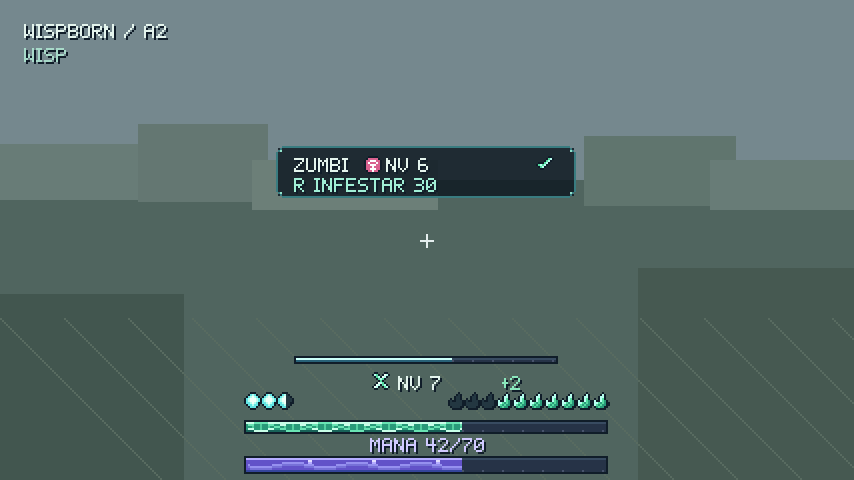
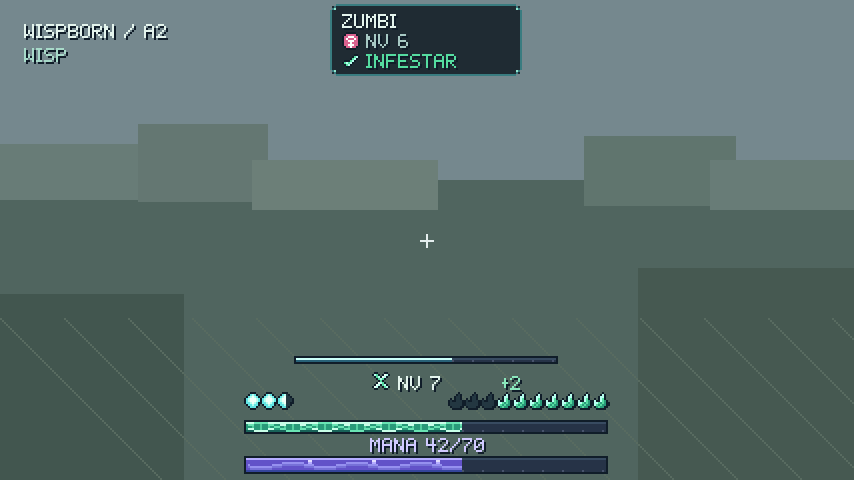
feat(hud): painel do alvo vira cartao no topo central (opcao B)
Cartao de 3 linhas no topo, no mesmo slot do painel do hospedeiro: nome,
selo de sexo + nivel, e 'Infestar' com icone em verde (pode) ou vermelho
(nao pode), sem tecla nem custo. Largura acompanha a linha mais longa
(72-160) via moldura nine-slice. O slot desce abaixo das barras de boss
(TopSlot, um quadro de atraso). HudMath.topSlotY e cardWidth com testes.

Changed region(s): [[0.3044, 0.2812, 0.7002, 0.4375], [0.3653, 0.0, 0.6089, 0.1562]]

diff --git a/src/main/java/dev/eder/wispborn/client/hud/WispHud.java b/src/main/java/dev/eder/wispborn/client/hud/WispHud.java
@@ -74,16 +74,19 @@ public final class WispHud {
     private static final int COLOR_MANA_TEXT = 0xD0CAFF;
     private static final int COLOR_POINTS_TEXT = 0x8BE8BD;
     private static final int COLOR_CONSUME_PROMPT = 0xC7FFE8;
-    private static final int COLOR_TARGET_OK = 0xA1EFD6;
-    private static final int COLOR_TARGET_FAIL = 0xFF7B7B;
+    private static final int COLOR_TEXT_MUTED = 0xA7C9C4;
+    private static final int COLOR_INFEST_OK = 0x55DCA0;
+    private static final int COLOR_INFEST_FAIL = 0xFF7B7B;
 
     /** Layout revisado em 20/11/2026: painel do hospedeiro no topo, selo e conjuração no centro inferior. */
     private static final int HOST_FRAME_W = 128;
     private static final int HOST_FRAME_H = 24;
-    private static final int HOST_FRAME_TOP = 4;
     private static final int HOST_BAR_W = 118;
     private static final int HOST_BAR_H = 5;
-    private static final int TARGET_FRAME_H = 26;
+    private static final int TARGET_CARD_H = 36;
+    private static final int TARGET_CARD_PAD = 6;
+    private static final int TARGET_CARD_MIN_W = 72;
+    private static final int TARGET_CARD_MAX_W = 160;
     private static final int CONSUME_BADGE_W = 84;
     private static final int CONSUME_BADGE_H = 16;
     private static final int CAST_BAR_W = 132;
@@ -291,7 +294,7 @@ public final class WispHud {
         SyncWispStatePayload state = ClientWispState.get();
         int cx = graphics.guiWidth() / 2;
         int frameX = cx - HOST_FRAME_W / 2;
-        int frameY = HOST_FRAME_TOP;
+        int frameY = TopSlot.top();
         int barX = frameX + 5;
         int barY = frameY + 15;
 
@@ -406,6 +409,10 @@ public final class WispHud {
         RenderSystem.disableBlend();
     }
 
+    /**
+     * Cartão do alvo no topo central (opção B, 20/11/2026): nome; selo de sexo + nível; ícone + "Infestar"
+     * em verde (pode) ou vermelho (não pode). A largura acompanha a linha mais longa.
+     */
     private static void renderPossessTarget(GuiGraphics graphics, DeltaTracker deltaTracker) {
         Minecraft mc = Minecraft.getInstance();
         Player player = activeParasitePlayer(mc);
@@ -423,64 +430,39 @@ public final class WispHud {
             return;
         }
 
-        int cx = graphics.guiWidth() / 2;
-        int h = graphics.guiHeight();
-        int frameX = cx - 75;
-        // A moldura termina 21 px acima da mira, como no LAYOUT.
-        int frameY = Math.max(4, h / 2 - 21 - TARGET_FRAME_H);
-
-        ResourceLocation statusIcon = info.result() == InfestResult.OK
-                ? HudSprites.TARGET_OK
-                : HudSprites.TARGET_BLOCKED;
-
-        RenderSystem.enableBlend();
-        graphics.blitSprite(HudSprites.TARGET_FRAME, frameX, frameY, 150, TARGET_FRAME_H);
-        graphics.blitSprite(statusIcon, cx + 55, frameY + 4, 9, 9);
-        RenderSystem.disableBlend();
-
         Font font = mc.font;
-        int topRowY = frameY + 6;
-        int nameX = cx - 66;
-        int maxRight = cx + 52;
+        boolean canInfest = info.result() == InfestResult.OK;
         Component targetName = target instanceof Player
                 ? target.getDisplayName()
                 : target.getType().getDescription();
+        boolean hasTraits = info.mobLevel() > 0 && info.sex().isPresent();
+        Component sexGlyph = hasTraits ? info.sex().get().glyphComponent() : Component.empty();
+        Component levelText = hasTraits
+                ? Component.translatable("wispborn.hud.level", info.mobLevel())
+                : Component.empty();
+        Component action = Component.translatable("wispborn.target.infest");
 
-        if (info.mobLevel() > 0 && info.sex().isPresent()) {
-            Component sexGlyph = info.sex().get().glyphComponent();
-            Component levelText = Component.translatable("wispborn.hud.level", info.mobLevel());
-            int suffixWidth = 5 + font.width(sexGlyph) + 3 + font.width(levelText);
-            int maxNameWidth = Math.max(16, maxRight - nameX - suffixWidth);
-            String nameStr = ellipsize(font, targetName.getString(), maxNameWidth);
-            graphics.drawString(font, nameStr, nameX, topRowY, COLOR_TEXT_PRIMARY, true);
+        int traitsWidth = hasTraits ? font.width(sexGlyph) + 3 + font.width(levelText) : 0;
+        int actionWidth = 9 + 3 + font.width(action);
+        int maxNameWidth = TARGET_CARD_MAX_W - TARGET_CARD_PAD * 2;
+        String nameStr = ellipsize(font, targetName.getString(), maxNameWidth);
+        int widest = Math.max(font.width(nameStr), Math.max(traitsWidth, actionWidth));
+        int w = HudMath.cardWidth(widest, TARGET_CARD_PAD, TARGET_CARD_MIN_W, TARGET_CARD_MAX_W);
+        int x = graphics.guiWidth() / 2 - w / 2;
+        int y = TopSlot.top();
+        int textX = x + TARGET_CARD_PAD;
 
-            int glyphX = nameX + font.width(nameStr) + 5;
-            graphics.drawString(font, sexGlyph, glyphX, topRowY - 1, 0xFFFFFF, false);
-            int levelX = glyphX + font.width(sexGlyph) + 3;
-            graphics.drawString(font, levelText, levelX, topRowY, COLOR_TEXT_PRIMARY, true);
-        } else {
-            String nameStr = ellipsize(font, targetName.getString(), Math.max(16, maxRight - nameX));
-            graphics.drawString(font, nameStr, nameX, topRowY, COLOR_TEXT_PRIMARY, true);
+        RenderSystem.enableBlend();
+        graphics.blitSprite(HudSprites.TARGET_FRAME, x, y, w, TARGET_CARD_H);
+        graphics.blitSprite(canInfest ? HudSprites.TARGET_OK : HudSprites.TARGET_BLOCKED, textX, y + 24, 9, 9);
+        RenderSystem.disableBlend();
+
+        graphics.drawString(font, nameStr, textX, y + 5, COLOR_TEXT_PRIMARY, true);
+        if (hasTraits) {
+            graphics.drawString(font, sexGlyph, textX, y + 14, 0xFFFFFF, false);
+            graphics.drawString(font, levelText, textX + font.width(sexGlyph) + 3, y + 15, COLOR_TEXT_MUTED, true);
         }
-
-        Component actionComp = buildTargetActionLine(info);
-        String actionStr = ellipsize(font, actionComp.getString(), 132);
-        int actionColor = info.result() == InfestResult.OK ? COLOR_TARGET_OK : COLOR_TARGET_FAIL;
-        graphics.drawString(font, actionStr, cx - 66, frameY + 16, actionColor, true);
-    }
-
-    private static Component buildTargetActionLine(TargetInfoPayload info) {
-        return switch (info.result()) {
-            case OK -> Component.translatable(
-                    "wispborn.target.ready_cost",
-                    KeyBindings.POSSESS.getTranslatedKeyMessage(),
-                    info.manaCost()
-            );
-            case IMMUNE, NOT_A_MOB -> Component.translatable("wispborn.infest.immune");
-            case HAS_PASSENGER -> Component.translatable("wispborn.infest.has_passenger");
-            case TOO_STRONG -> Component.translatable("wispborn.infest.too_strong", info.mobLevel(), info.wispLevel());
-            case NO_MANA -> Component.translatable("wispborn.infest.no_mana", info.manaCost());
-        };
+        graphics.drawString(font, action, textX + 12, y + 25, canInfest ? COLOR_INFEST_OK : COLOR_INFEST_FAIL, true);
     }
 
     private static Player activeParasitePlayer(Minecraft mc) {

diff --git a/art/hud/src/generate_hud.py b/art/hud/src/generate_hud.py
@@ -224,6 +224,11 @@ def make_sprites():
             },indent=2)+'\n')
     put('dna_icon',icon(['.##...##.','#le#.#wl#','.#el#wl#.','..#ele#..','...#e#...','..#wle#..','.#wl#el#.','#wl#.#el#','.##...##.']))
     put('host_frame',frame((128,24)));put('target_frame',frame((150,26)))
+    # Molduras em nine-slice: o jogo desenha em qualquer tamanho sem esticar o chanfro (20/11/2026).
+    for name,size in (('host_frame',(128,24)),('target_frame',(150,26))):
+        (ROOT/'sprites'/(name+'.png.mcmeta')).write_text(json.dumps({
+            'gui':{'scaling':{'type':'nine_slice','width':size[0],'height':size[1],'border':4}}
+        },indent=2)+'\n')
     marker=Image.new('RGBA',(3,8));d=ImageDraw.Draw(marker)
     d.rectangle((0,0,2,7),fill=EDGE);d.line((1,0,1,7),fill='#ffd694')
     put('host_floor_marker',marker)
@@ -315,12 +320,13 @@ def mockup(sprites,glyphs,host):
         paste('consume_ready',cx-37,171)
         text(canvas,'CONSUMIR C',cx-24,172,color='#c7ffe8')
     else:
-        paste('target_frame',cx-75,73)
-        text(canvas,'ZUMBI',cx-66,79)
-        canvas.alpha_composite(glyphs['sex_female_badge'],(cx-31,78))
-        text(canvas,'NV 6',cx-20,79)
-        paste('target_ok',cx+55,77)
-        text(canvas,'R INFESTAR 30',cx-66,89,color='#a1efd6')
+        # Cartao do alvo no topo central (opcao B, 20/11/2026): nome, sexo e nivel, estado.
+        canvas.alpha_composite(frame((96,36)),(cx-48,2))
+        text(canvas,'ZUMBI',cx-42,7)
+        canvas.alpha_composite(glyphs['sex_female_badge'],(cx-42,16))
+        text(canvas,'NV 6',cx-30,17,color='#a7c9c4')
+        paste('target_ok',cx-42,26)
+        text(canvas,'INFESTAR',cx-30,27,color='#55dca0')
         # Barra de conjuracao so durante o cast, no centro inferior.
         paste('cast_bar_background',cx-66,178)
         canvas.alpha_composite(sprites['cast_bar_progress'].crop((0,0,79,4)),(cx-66,178))

diff --git a/src/main/java/dev/eder/wispborn/client/hud/TopSlot.java b/src/main/java/dev/eder/wispborn/client/hud/TopSlot.java
@@ -1,0 +1,41 @@
+package dev.eder.wispborn.client.hud;
+
+import dev.eder.wispborn.WispbornMod;
+import net.neoforged.api.distmarker.Dist;
+import net.neoforged.bus.api.SubscribeEvent;
+import net.neoforged.fml.common.EventBusSubscriber;
+import net.neoforged.neoforge.client.event.CustomizeGuiOverlayEvent;
+import net.neoforged.neoforge.client.event.RenderGuiEvent;
+
+/**
+ * Posição vertical do slot do topo central (painel do alvo e do hospedeiro). As barras de boss também
+ * ficam no topo central; quando há alguma, o slot desce para logo abaixo da última. A camada de boss é
+ * desenhada depois das nossas, então usamos a medida do quadro anterior (um quadro de atraso).
+ */
+@EventBusSubscriber(modid = WispbornMod.MOD_ID, value = Dist.CLIENT)
+public final class TopSlot {
+    private static final int DEFAULT_TOP = 2;
+    /** Altura da barra de boss abaixo do Y informado pelo evento (5 px de barra + 2 de folga). */
+    private static final int BOSS_BAR_HEIGHT = 7;
+
+    private static int bossBottomThisFrame = 0;
+    private static int bossBottomLastFrame = 0;
+
+    private TopSlot() {
+    }
+
+    public static int top() {
+        return HudMath.topSlotY(DEFAULT_TOP, bossBottomLastFrame);
+    }
+
+    @SubscribeEvent
+    public static void onBossBar(CustomizeGuiOverlayEvent.BossEventProgress event) {
+        bossBottomThisFrame = Math.max(bossBottomThisFrame, event.getY() + BOSS_BAR_HEIGHT);
+    }
+
+    @SubscribeEvent
+    public static void onRenderGuiPost(RenderGuiEvent.Post event) {
+        bossBottomLastFrame = bossBottomThisFrame;
+        bossBottomThisFrame = 0;
+    }
+}

diff --git a/src/main/java/dev/eder/wispborn/client/hud/HudMath.java b/src/main/java/dev/eder/wispborn/client/hud/HudMath.java
@@ -27,6 +27,16 @@ public final class HudMath {
         return states;
     }
 
+    /** Y do slot do topo: {@code defaultTop}, ou 2 px abaixo da última barra de boss quando houver. */
+    public static int topSlotY(int defaultTop, int bossBottom) {
+        return bossBottom > 0 ? Math.max(defaultTop, bossBottom + 2) : defaultTop;
+    }
+
+    /** Largura do cartão do alvo: maior linha + margens, entre {@code min} e {@code max}. */
+    public static int cardWidth(int widestLine, int padding, int min, int max) {
+        return Math.clamp(widestLine + padding * 2L, min, max);
+    }
+
     public static int floorMarkerX(double floorPercent, int barWidth) {
         if (barWidth <= 0) {
             return 0;

diff --git a/src/test/java/dev/eder/wispborn/client/hud/HudMathTest.java b/src/test/java/dev/eder/wispborn/client/hud/HudMathTest.java
@@ -28,4 +28,18 @@ class HudMathTest {
         assertEquals(20, HudMath.floorMarkerX(0.2D, 100));
         assertEquals(32, HudMath.floorMarkerX(0.2D, 164));
     }
+
+    @Test
+    void topSlotYDropsBelowBossBars() {
+        assertEquals(2, HudMath.topSlotY(2, 0));
+        assertEquals(21, HudMath.topSlotY(2, 19));
+        assertEquals(40, HudMath.topSlotY(2, 38));
+    }
+
+    @Test
+    void cardWidthFitsWidestLineWithinLimits() {
+        assertEquals(72, HudMath.cardWidth(20, 6, 72, 160));
+        assertEquals(96, HudMath.cardWidth(84, 6, 72, 160));
+        assertEquals(160, HudMath.cardWidth(300, 6, 72, 160));
+    }
 }

diff --git a/art/hud/LAYOUT.md b/art/hud/LAYOUT.md
@@ -49,7 +49,7 @@ Compact panel at the **top center**, absolute Y from the top of the screen (not 
 
 | Element | X (from center) | Y (from top) | Size |
 | --- | ---: | ---: | --- |
-| `host_frame` | -64 | 4 | 128×24 |
+| `host_frame` (nine-slice, border 4) | -64 | top slot (2, below boss bars) | 128×24 |
 | Host name | -59 | 8 | Measured, ellipsized before the suffix |
 | Sex badge / level | after name + 3 px | 7 / 8 | Badge 9×9 (`U+E003`/`U+E004`); level text |
 | `no_ep` (when the prey gives no EP) | left of the percentage, 2 px gap | 7 | 9×9 |
@@ -73,17 +73,20 @@ Its bottom edge sits 56 px above the screen bottom and moves up with extra healt
 | "Consumir [key]" text | same | -21 | badge top + 5 | Font, `#C7FFE8` |
 | Cast background/progress | WISP while casting | -66 | 56 (top at 64) | 132×4 |
 
-## Target panel (revisado em 20/11/2026)
+## Target card (opção B, 20/11/2026)
 
-| Element | X | Y | Size |
+Card at the **top center**, same slot as the host panel (they never show together). Its
+top is Y = 2, or 2 px below the last boss bar when one is on screen.
+
+| Element | X (from card left) | Y (from card top) | Size |
 | --- | ---: | ---: | --- |
-| `target_frame` | -75 | `H/2 - 47` | 150×26 |
-| Target name, sex badge, level | -66 | frame + 6 | Measured text; leave 21 px for status |
-| `target_ok` / `target_blocked` | 55 | frame + 4 | 9×9 |
-| Action label | -66 | frame + 16 | Font height 7–9 |
+| `target_frame` (nine-slice, border 4) | centered | 0 | width = widest line + 12, 72–160; height 36 |
+| Target name | 6 | 5 | Ellipsized to 148 px |
+| Sex badge + level | 6 | 14 / 15 | Badge 9×9; level in `#A7C9C4` |
+| `target_ok` / `target_blocked` | 6 | 24 | 9×9 |
+| "Infestar" | 18 | 25 | Green `#55DCA0` when possible, red `#FF7B7B` when not |
 
-The cast bar left this panel and lives in the central bottom slot. The panel still
-ends 21 GUI pixels above the crosshair. No panel may cover the central crosshair region.
+No key and no mana cost on the card. The cast bar lives in the central bottom slot.
 
 ## Sprite inventory and alpha
 
